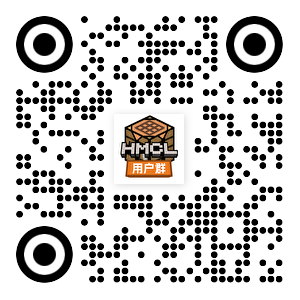
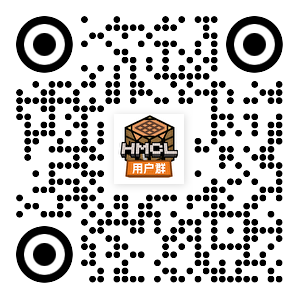
更新用户群二维码至五群

diff --git a/_docs/groups.md b/_docs/groups.md
@@ -29,7 +29,7 @@ toc: true
 - [HMCL 用户群 ① (633640264)](https://qm.qq.com/q/fvJueufsvC)（已满）
 - [HMCL 用户群 ② (203232161)](https://qm.qq.com/q/N7hgdNYfy)（已满）
 - [HMCL 用户群 ③ (201034984)](https://qm.qq.com/q/7sbMrFm9CE)（已满）
-- [HMCL 用户群 ④ (533529045)](https://qm.qq.com/q/ACmZa98tGg)
+- [HMCL 用户群 ④ (533529045)](https://qm.qq.com/q/ACmZa98tGg)（已满）
 - [HMCL 用户群 ⑤ (744304553)](https://qm.qq.com/q/MlVArSCMwM)
 
 ## 报错崩溃交流群
